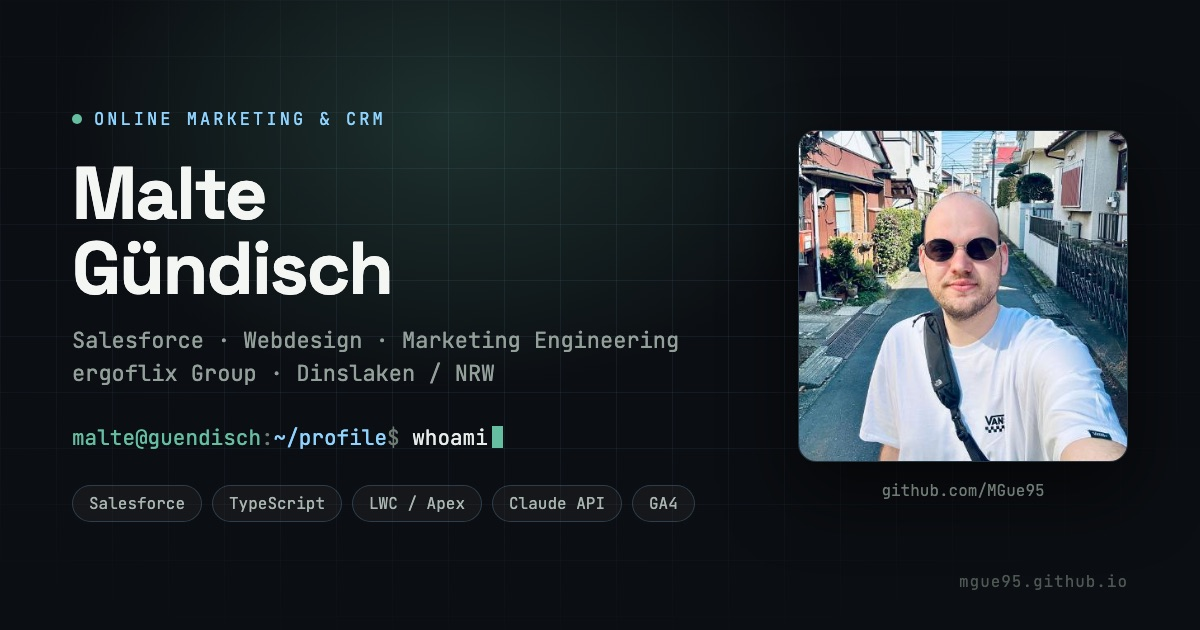
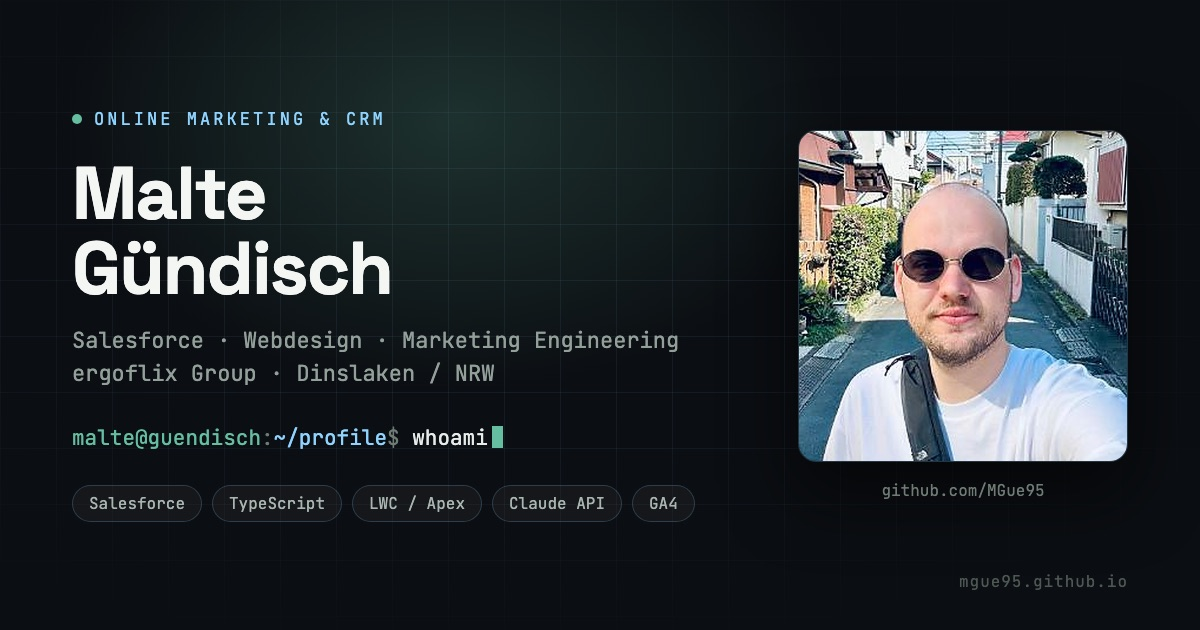
fix: tighten the portrait crop in the hero section
The frame is square and the source image is square, so the full holiday
selfie was shown at full width — the subject filled less than half of it,
surrounded by street. The photo is now cropped to head and shoulders
(280x280 out of the 400x400 original), resampled to 600px with a light
unsharp pass so the browser no longer scales it, and the social preview
image was rebuilt from the same crop.

The original file stays in the repository as the source for future crops.

Changed region(s): [[0.6475, 0.181, 0.9558, 0.754]]

diff --git a/index.html b/index.html
@@ -22,7 +22,7 @@
     <meta name="twitter:title" content="Malte Gündisch – Systems, CRM & Engineering">
     <meta name="twitter:description" content="Salesforce, CRM-Architektur, Webdesign, Webentwicklung und Marketing-Technologie.">
     <meta name="twitter:image" content="https://mgue95.github.io/og.jpg">
-    <link rel="preload" as="image" href="101451426.jpg" fetchpriority="high">
+    <link rel="preload" as="image" href="portrait.jpg" fetchpriority="high">
 
     <script type="application/ld+json">
     {
@@ -169,7 +169,7 @@
                                 <div class="portrait-card-inner">
                                     <div class="portrait-face portrait-front">
                                         <div class="photo-wrapper">
-                                            <img src="101451426.jpg" alt="Malte Gündisch" class="portrait-img" width="286" height="286" loading="eager" decoding="async" fetchpriority="high">
+                                            <img src="portrait.jpg" alt="Malte Gündisch" class="portrait-img" width="600" height="600" loading="eager" decoding="async" fetchpriority="high">
                                         </div>
                                         <div class="portrait-info">
                                             <div class="portrait-name">Malte Gündisch</div>
